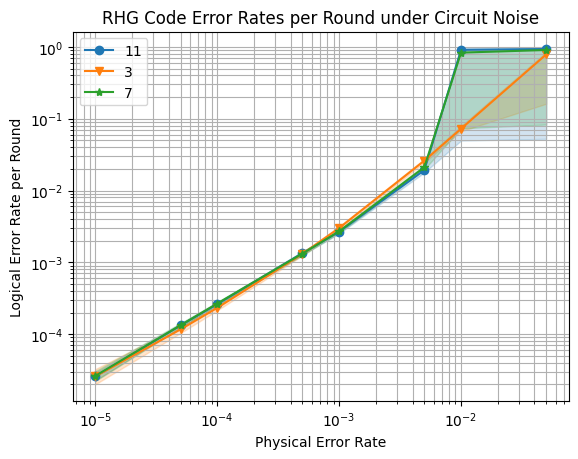
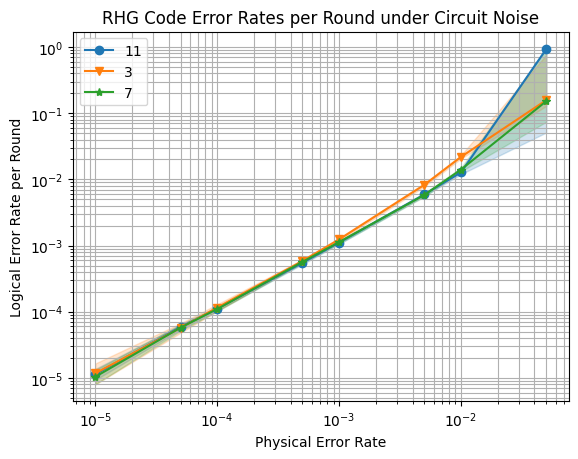
minor fix

Changed region(s): [[0.0311, 0.0915, 0.9965, 0.8845], [0.1246, 0.122, 0.1557, 0.1525], [0.0623, 0.8235, 0.0934, 0.854]]

diff --git a/examples/rhg_memory.py b/examples/rhg_memory.py
@@ -48,7 +48,7 @@ def create_circuit(d: int, rounds: int, noise: float) -> stim.Circuit:
         pattern,
         logical_observables,
         after_clifford_depolarization=noise,
-        before_measure_flip_probability=0,
+        before_measure_flip_probability=noise,
     )
     return stim.Circuit(stim_str)
 
